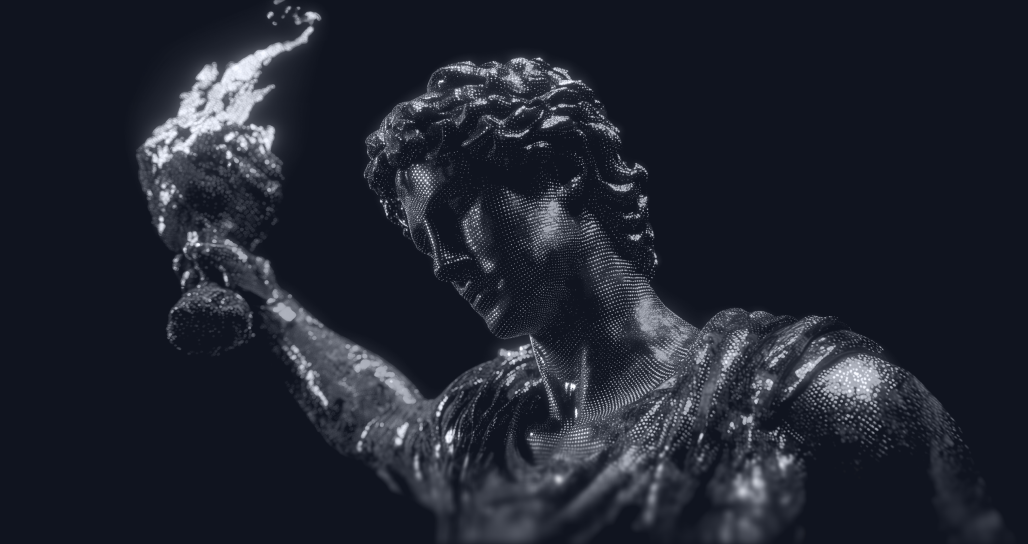
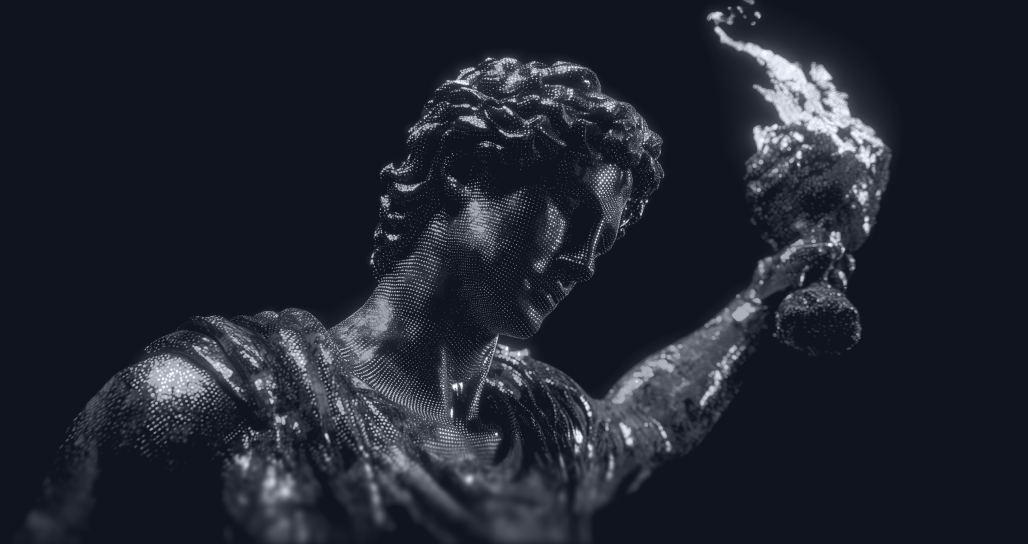
feat(ui): view brand imagery v2 jobs (#822)

diff --git a/src/routes/(pages)/c/[slug]/+page.svelte b/src/routes/(pages)/c/[slug]/+page.svelte
@@ -38,13 +38,10 @@
 
   export let data: PageData;
 
-  // detect version from url query parameter
-  $: isV2 = $page.url.searchParams.get('v2') === 'true';
-
   $: ({ store, options: queryOptions } = data);
   $: ({ data: storeData } = $store);
   $: community = storeData?.community as Community;
-  $: communityCover = parseCommunityCoverImage(community, isV2);
+  $: communityCover = parseCommunityCoverImage(community);
   $: ({ edges, totalCount, pageInfo } = community?.postedMessages || {
     edges: [],
     totalCount: 0,

diff --git a/src/lib/utils/index.ts b/src/lib/utils/index.ts
@@ -25,10 +25,10 @@ function findPos(obj: any) {
 
 export const sanitizeHtml = (s: string) => insane(s, {}, true);
 
-export function parseCommunityCoverImage(community: Community, isV2: boolean = false): string {
+export function parseCommunityCoverImage(community: Community): string {
   switch (community.slug) {
     case 'jobs':
-      return isV2 ? `/og/v2/jobs.png` : `/og/jobs.png`;
+      return `/og/v2/jobs.png`;
     case 'announcements':
       return `/og/announcements.png`;
     case 'learn':
